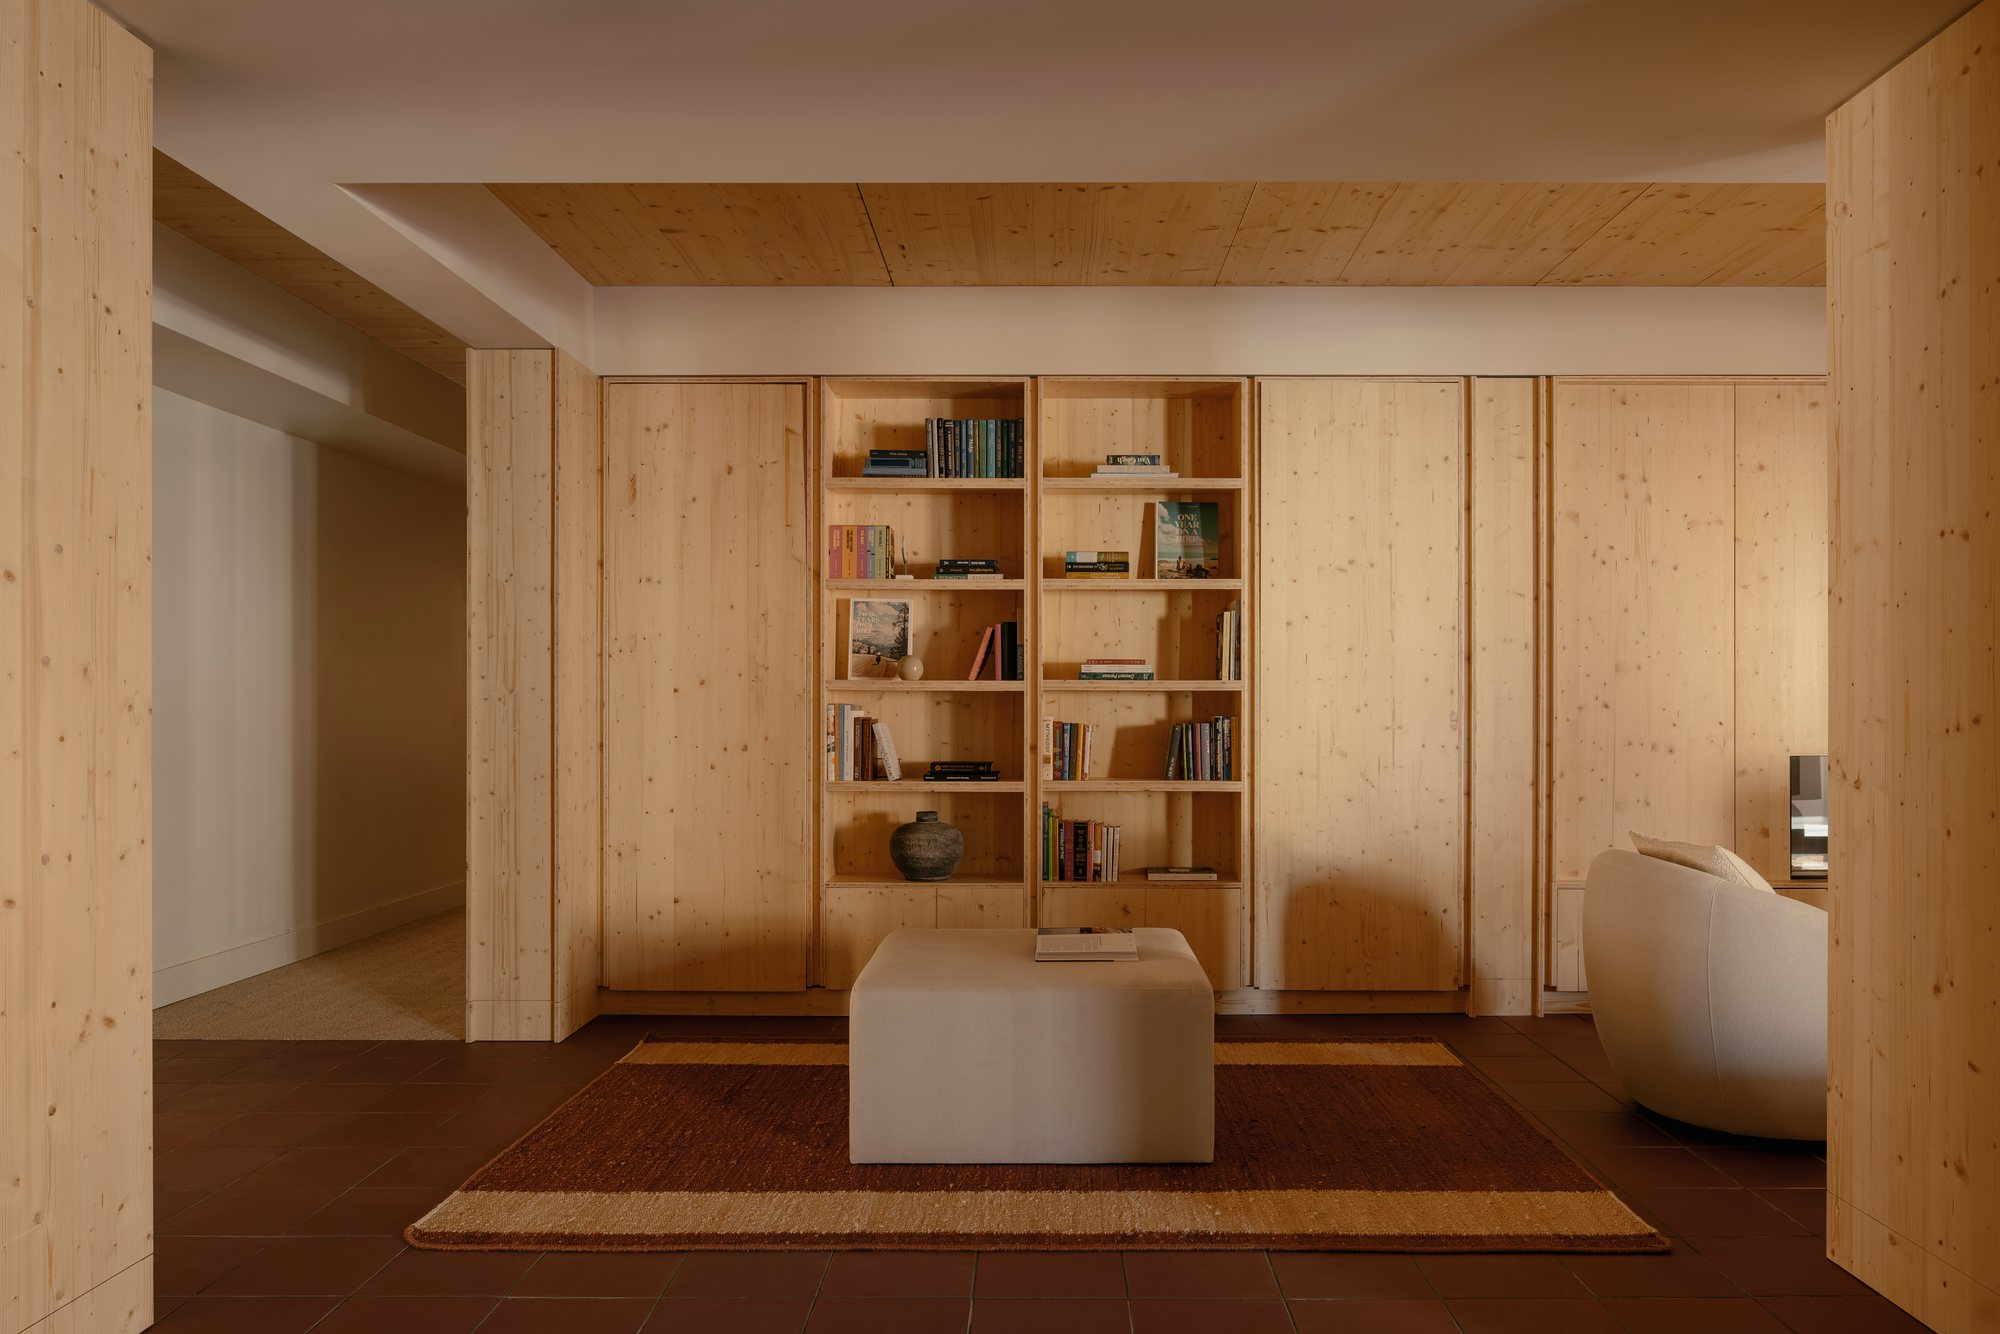
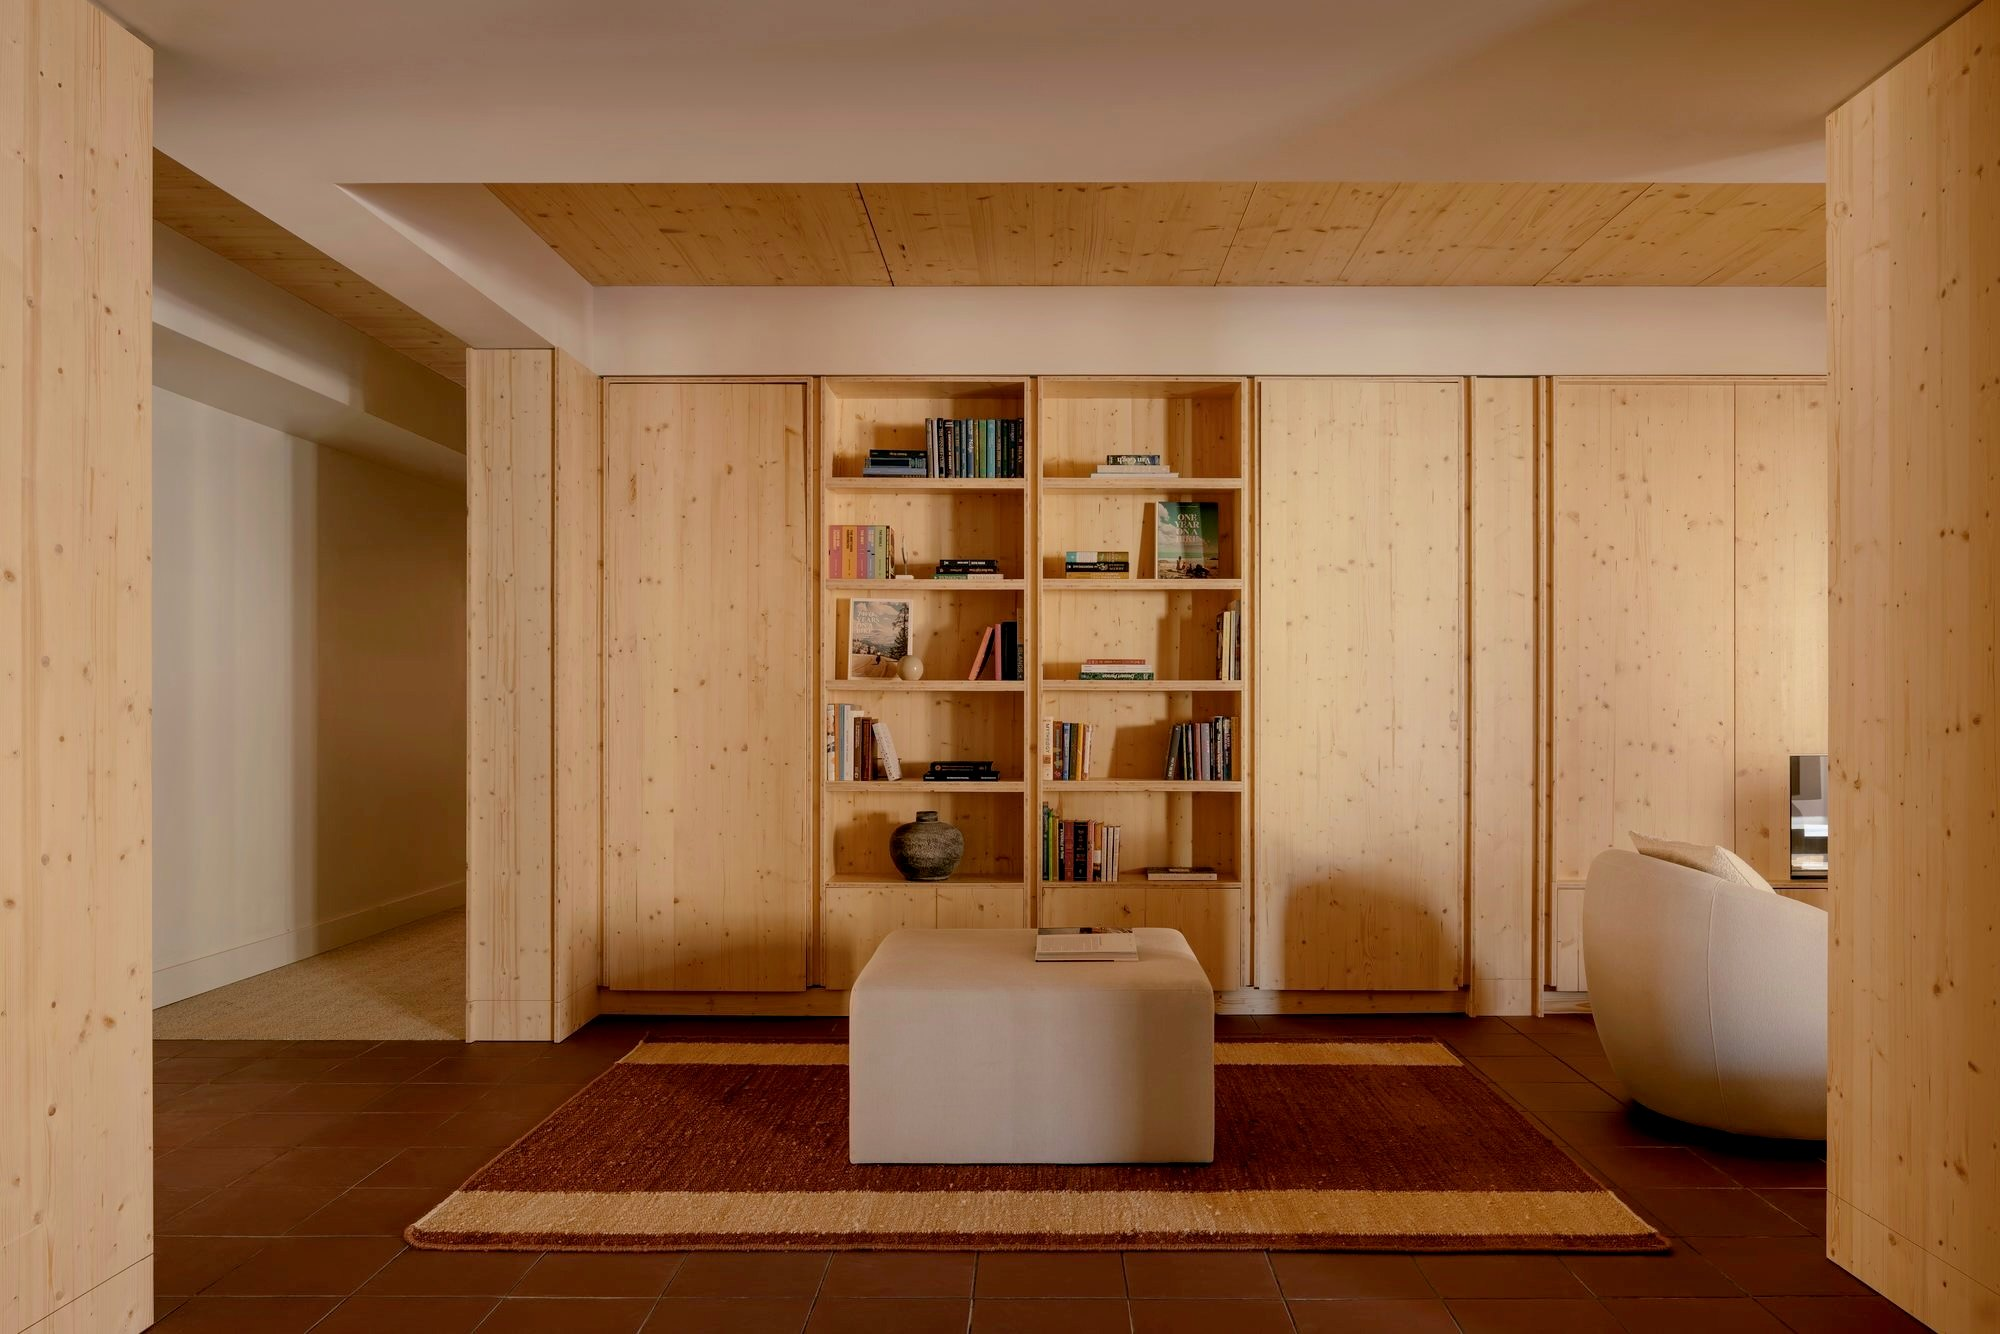
Lighter, larger homepage hero photo; sync working tree

Changed region(s): [[0.496, 0.8913, 0.806, 0.922], [0.217, 0.8913, 0.434, 0.922]]

diff --git a/src/styles/global.css b/src/styles/global.css
@@ -60,7 +60,7 @@ nav{
 
 /* ---------- hero ---------- */
 .hero{padding:clamp(56px,9vw,110px) 0 clamp(48px,7vw,90px)}
-.hero-grid{display:grid;grid-template-columns:1.15fr .85fr;gap:clamp(32px,5vw,72px);align-items:center}
+.hero-grid{display:grid;grid-template-columns:1fr 1.25fr;gap:clamp(32px,5vw,72px);align-items:center}
 .hero h1{font-size:clamp(40px,5.4vw,68px);margin:18px 0 22px;letter-spacing:-.01em}
 .hero h1 em{color:var(--moss);font-style:italic}
 .hero p{max-width:46ch;color:var(--ink-soft);font-size:17px}